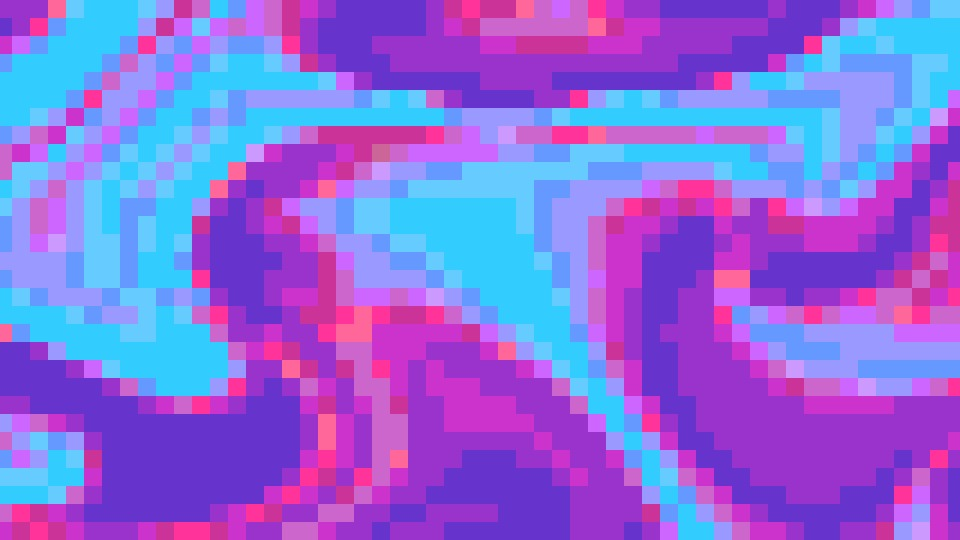
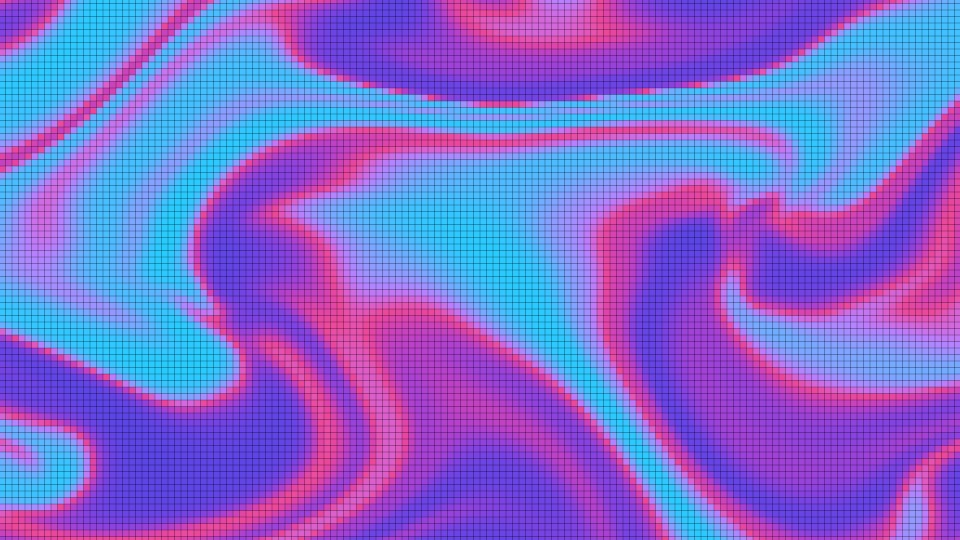
docs: effects over the picture, tint

diff --git a/packages/core/test/assets.browser.test.ts b/packages/core/test/assets.browser.test.ts
@@ -6,7 +6,7 @@
 
 import { describe, it } from "vitest";
 import { commands } from "vitest/browser";
-import { ascii, bloom, burst, dither, dune, flow, glint, halftone, halo, nacre, pixelate, renderStackFrame, silk } from "../src/index";
+import { ascii, bloom, burst, dither, dune, flow, glint, halftone, halo, nacre, pixelate, renderStackFrame, silk, tint } from "../src/index";
 import type { EffectLayer, Source } from "../src/index";
 
 const ENABLED = Boolean((import.meta as unknown as { env: Record<string, string> }).env.VITE_ASSETS);
@@ -20,17 +20,19 @@ async function save(name: string, source: Source, effects: EffectLayer[], colors
 
 describe.skipIf(!ENABLED)("readme assets", () => {
   it("renders one image per effect", async () => {
-    await save("pixelate", { kind: "generator", shader: flow }, [{ effect: pixelate, params: { size: 36, levels: 6 } }],
+    await save("pixelate", { kind: "generator", shader: flow }, [{ effect: pixelate, params: {} }],
       ["#4f46e5", "#ec4899", "#22d3ee"], 12, 3000);
     await save("dither", { kind: "generator", shader: bloom },
-      [{ effect: dither, params: { pattern: "blueNoise", size: 3, colorMode: "palette", levels: 4 } }],
+      [{ effect: dither, params: {} }],
       ["#140f30", "#9c2168", "#eb6a4e", "#fcd87c"], 3, 3000);
     await save("halftone", { kind: "generator", shader: halo },
       [{ effect: halftone, params: {} }],
       ["#081A3D", "#123A73", "#1E63AC", "#4C9EDB", "#AEDAF7"], 5, 2000);
     await save("ascii", { kind: "generator", shader: dune },
-      [{ effect: ascii, params: { size: 30, colorMode: "source", paper: "#050505" } }],
+      [{ effect: ascii, params: {} }],
       ["#FF2ED1", "#00F5A0", "#FFE600", "#00D1FF"], 7, 2500);
+    await save("tint", { kind: "generator", shader: flow }, [{ effect: tint, params: {} }],
+      ["#4f46e5", "#ec4899", "#22d3ee"], 12, 3000);
   }, 120_000);
 
   it("renders one image per newer look", async () => {

diff --git a/packages/core/test/effects.browser.test.ts b/packages/core/test/effects.browser.test.ts
@@ -320,8 +320,8 @@ describe("tint", () => {
 });
 
 describe("soft effects", () => {
-  // No shipped effect is soft any more (halftone moved to a lattice), so the
-  // path is exercised with a minimal one: invert the layer below.
+  // Tint is the one shipped soft effect; the path is exercised with a
+  // minimal one whose output is exact: invert the layer below.
   const invert: EffectDef = {
     id: "test-invert",
     label: "Invert",

diff --git a/README.md b/README.md
@@ -285,8 +285,14 @@ An effect redraws a picture. The picture can be one of the shaders above or an i
   <tr>
     <td width="25%"><img src=".github/assets/pixelate.jpg" alt="Pixelate" /><br /><b>Pixelate</b> <code>pixelate</code><br />Flat cells, with optional posterize and grid lines.</td>
     <td width="25%"><img src=".github/assets/dither.jpg" alt="Dither" /><br /><b>Dither</b> <code>dither</code><br />Bayer or blue-noise patterns, two to eight levels.</td>
-    <td width="25%"><img src=".github/assets/halftone.jpg" alt="Halftone" /><br /><b>Halftone</b> <code>halftone</code><br />Dots, lines or diamonds blended over the picture, or on paper.</td>
+    <td width="25%"><img src=".github/assets/halftone.jpg" alt="Halftone" /><br /><b>Halftone</b> <code>halftone</code><br />Dots, lines or diamonds over the picture, or on paper.</td>
     <td width="25%"><img src=".github/assets/ascii.jpg" alt="ASCII" /><br /><b>ASCII</b> <code>ascii</code><br />Characters picked by brightness, six sets.</td>
+  </tr>
+  <tr>
+    <td><img src=".github/assets/tint.jpg" alt="Tint" /><br /><b>Tint</b> <code>tint</code><br />Recolours by brightness, in two colours or the palette.</td>
+    <td></td>
+    <td></td>
+    <td></td>
   </tr>
 </table>
 
@@ -321,21 +327,43 @@ mountStack(el, {
 
 In React that is `<ShaderStack source={{ kind: "media", media: img }} colors={...} effects={...} />`. `effects` is a list, bottom layer first, so effects can stack.
 
+### How effects combine with the picture
+
+Halftone and ASCII draw marks over the picture: shapes, or characters. A bigger mark is a larger shape or a heavier character. They share these params:
+
+| Param | Range | What it does |
+| --- | --- | --- |
+| `ground` | `image`, `paper` | What the marks are drawn on: the picture, which shows between them, or a flat sheet of `paper` |
+| `blend` | `normal`, `multiply`, `screen`, `overlay`, `softLight`, `colorDodge` | How each mark combines with what is under it (CSS / W3C blend modes) |
+| `opacity` | 0 – 1 | Strength of the marks over the ground |
+| `blur` | 0 – 40 | Blurs the picture behind the marks. Image ground only |
+| `style` | `filled`, `uniform` | `filled` sizes each mark by the tone under it. `uniform` gives every mark the same size |
+| `exposure` | -1 – 1 | Brightens or darkens the tone that sizes the marks. The picture itself is unchanged |
+| `contrast` | 0 – 2 | Tone contrast before sizing the marks |
+| `density` | 0 – 1 | Share of cells that get a mark. The rest stay empty |
+
+Marks grow where they show. On an image ground, `multiply` grows them in the dark areas and every other blend in the bright areas. On paper, they grow where the picture differs most from the paper: in the dark areas on a light sheet, in the bright areas on a dark one. `invert` flips it.
+
+Dither and pixelate take `blend` and `opacity` only. `blend: "normal"` with `opacity: 1` replaces the picture.
+
+Dither, halftone and ASCII share the colour params. `colorMode` is `source` (keep the picture's colours), `duotone` (`ink` on `paper`) or `palette` (the palette's colours). `invert` flips the tone scale. Over a shader, palette mode keeps the gradient's own colour layout: dither outputs `levels` steps of the ramp (set `levels` to the number of colours to get exactly those), and halftone and ASCII colour each dot or glyph with the nearest palette stop, flat. On halftone and ASCII, `paper` only shows on a paper ground.
+
+Tint recolours whatever is below it, so stack it after any effect, or use it alone.
+
 ### Effect params
 
 Same rules as shader params: pass a subset, the rest keep their defaults. Sizes are in pixels at 1080p, so a `size` of 4 is 4px cells in a 1920x1080 export and 8px cells at 4K, with the same number of cells in both.
-
-Dither, halftone and ASCII share the colour params. `colorMode` is `source` (keep the picture's colours), `duotone` (`ink` on `paper`) or `palette` (the palette's colours). `invert` flips the tone scale. Over a shader, palette mode keeps the gradient's own colour layout: dither outputs `levels` steps of the ramp (set `levels` to the number of colours to get exactly those), and halftone and ASCII colour each dot or glyph with the nearest palette stop, flat.
 
 <details>
 <summary><b>Pixelate</b></summary>
 
 | Param | Range | Default | What it does |
 | --- | --- | --- | --- |
-| `size` | 2 – 160 | 24 | Cell size |
+| `size` | 2 – 160 | 13 | Cell size |
 | `levels` | 0 – 16 | 0 | Colours per channel. 0 keeps full colour |
-| `gap` | 0 – 0.4 | 0 | Grid lines, as a fraction of the cell |
+| `gap` | 0 – 0.4 | 0.08 | Grid lines, as a fraction of the cell |
 | `gapColor` | colour | `#000000` | Colour of the grid lines |
+| `blend`, `opacity` | | `normal`, 1 | See above |
 
 </details>
 
@@ -350,7 +378,10 @@ Dither, halftone and ASCII share the colour params. `colorMode` is `source` (kee
 | `bias` | -0.5 – 0.5 | 0 | Shifts every tone before quantizing |
 | `linear` | on/off | off | Threshold in linear light. Physically accurate, but dark gradients lose detail |
 | `shimmer` | 0 – 12 | 0 | Pattern jumps per second. 0 is static |
-| `colorMode`, `ink`, `paper`, `invert` | | `source` | See above |
+| `colorMode`, `ink`, `paper`, `invert` | | `duotone`, `#000000`, `#ffffff` | See above |
+| `blend`, `opacity` | | `screen`, 0.6 | See above |
+
+By default the dither is white dots screened over the picture: black cells leave the picture as it is, white cells lighten it. For a full-frame dither in the picture's colours, use `{ colorMode: "source", blend: "normal", opacity: 1 }`.
 
 Floyd-Steinberg and the other error-diffusion dithers are not included. They are sequential, so a fragment shader cannot run them. Blue noise is the pattern that looks closest.
 
@@ -361,20 +392,17 @@ Floyd-Steinberg and the other error-diffusion dithers are not included. They are
 
 | Param | Range | Default | What it does |
 | --- | --- | --- | --- |
-| `ground` | `image`, `paper` | `image` | What the shapes are drawn on: the picture below, which shows between them, or a flat sheet of `paper` (classic print) |
-| `blend` | `normal`, `multiply`, `screen`, `overlay`, `softLight` | `screen` | How each shape combines with what is under it (CSS / W3C blend modes) |
-| `opacity` | 0 – 1 | 1 | Strength of the shapes over the ground |
+| `ground`, `blend`, `opacity`, `blur` | | `image`, `screen`, 1, 0 | See above |
 | `grid` | `square`, `hex` | `square` | Screen layout |
 | `shape` | `dot`, `line`, `square` | `square` | What each cell draws. `square` at 45° is a diamond |
 | `size` | 6 – 160 | 20 | Screen pitch |
 | `angle` | 0 – 180 | 45 | Screen angle, in degrees |
 | `radius` | 0.2 – 1.5 | 0.75 | Shape size. Above 1, neighbouring shapes merge where they are largest |
 | `softness` | 0 – 1 | 0.1 | Blurs shape edges |
-| `contrast` | 0 – 2 | 1.15 | Tone contrast before sizing the shapes |
-| `pulse` | 0 – 1 | 0 | Shapes swell and shrink in a wave across the frame |
-| `colorMode`, `ink`, `paper`, `invert` | | `source` | See above. `paper` shows only on a paper ground |
+| `style`, `exposure`, `contrast`, `density` | | `filled`, 0, 1.15, 1 | See above |
+| `colorMode`, `ink`, `paper`, `invert` | | `source` | See above |
 
-Shapes grow where their blend has the most effect: screened shapes can only lighten, so they grow in the bright areas; with any other blend they grow in the dark areas, as in print. `invert` flips it. For the old look, shapes on a sheet, use `{ ground: "paper", blend: "normal" }`.
+For shapes on a sheet, as in print, use `{ ground: "paper", blend: "normal" }`.
 
 </details>
 
@@ -383,14 +411,30 @@ Shapes grow where their blend has the most effect: screened shapes can only ligh
 
 | Param | Range | Default | What it does |
 | --- | --- | --- | --- |
+| `ground`, `blend`, `opacity`, `blur` | | `image`, `colorDodge`, 1, 0 | See above |
 | `charset` | `standard`, `dense`, `blocks`, `minimal`, `binary`, `katakana` | `standard` | Character set |
-| `size` | 8 – 96 | 24 | Character height |
+| `size` | 8 – 96 | 10 | Character height |
 | `smooth` | on/off | on | Dithers between neighbouring characters so gradients don't band |
-| `cycle` | 0 – 12 | 0 | Character re-rolls per second. 0 is static |
-| `cycleAmount` | 0 – 1 | 0.3 | How far a re-roll can move along the character ramp |
-| `colorMode`, `ink`, `paper`, `invert` | | `source` | See above. `paper` is the background in every mode |
+| `cycle` | 0 – 12 | 2 | Character re-rolls per second. 0 is static |
+| `cycleAmount` | 0 – 1 | 0.2 | Share of characters that re-roll each time. Higher also lets a character jump further along the set |
+| `style`, `exposure`, `contrast`, `density` | | `filled`, 0, 1.2, 1 | See above |
+| `colorMode`, `ink`, `paper`, `invert` | | `source`, `#e8ffe8`, `#000000` | See above |
+
+For the classic terminal look, characters on black, use `{ ground: "paper", blend: "normal" }`.
 
 Characters come from the system monospace font unless you pass `fontFamily` to the mount. Load a custom font with `document.fonts.load` first.
+
+</details>
+
+<details>
+<summary><b>Tint</b></summary>
+
+| Param | Range | Default | What it does |
+| --- | --- | --- | --- |
+| `mode` | `duotone`, `palette` | `duotone` | Maps each pixel's brightness to a colour: from `dark` to `light`, or along the palette |
+| `dark` | colour | `#1b1a4a` | Colour for black. Duotone only |
+| `light` | colour | `#f2c6a0` | Colour for white. Duotone only |
+| `amount` | 0 – 1 | 1 | Mix between the original colours (0) and the mapped ones (1) |
 
 </details>
 

diff --git a/.changeset/five-new-looks.md b/.changeset/five-new-looks.md
@@ -5,4 +5,4 @@
 
 Four new looks: `silk` (satin folds with an anisotropic sheen; matte and grainy at `sheen: 0`), `nacre` (glassy liquid folds whose colour shifts through the palette on every slope), `burst` (thin grainy rays out of one point, from dark tunnel to white-hot star, straight or twisted) and `glint` (a shoal of spinning shards streaming along a current). React: `<Silk>`, `<Nacre>`, `<Burst>`, `<Glint>`.
 
-Halftone now draws over the picture instead of replacing it. New params: `ground` (`image`, the default, keeps the picture visible between the shapes; `paper` is the old shapes-on-a-sheet look), `blend` (`normal`, `multiply`, `screen`, `overlay`, `softLight`, the CSS blend modes) and `opacity`. Screened shapes grow in the brights, every other blend grows them in the darks. New defaults: screen, diamonds (`shape: square` at 45°), size 20, radius 0.75, source colours. For the previous look, pass `{ ground: "paper", blend: "normal" }`. In palette mode, halftone and ASCII now colour each dot or glyph with the nearest palette stop, flat; over a shader they used to hand back the source colour and looked identical to source mode.
+Halftone now draws over the picture instead of replacing it. New params: `ground` (`image`, the default, keeps the picture visible between the shapes; `paper` is the old shapes-on-a-sheet look), `blend` (`normal`, `multiply`, `screen`, `overlay`, `softLight`, `colorDodge`, the CSS blend modes), `opacity`, `blur` (blurs the picture behind the shapes, image ground only), `style` (`filled` sizes shapes by tone, `uniform` makes them all one size), `exposure`, `density` (the share of cells that get a shape) and `contrast` as before. On an image ground, multiplied shapes grow in the darks and every other blend grows them in the brights; on paper they grow away from the paper colour. `invert` flips it. New defaults: screen, diamonds (`shape: square` at 45°), size 20, radius 0.75, source colours. For the previous look, pass `{ ground: "paper", blend: "normal" }`. `pulse` is removed. In palette mode, halftone and ASCII now colour each dot or glyph with the nearest palette stop, flat; over a shader they used to hand back the source colour and looked identical to source mode.

diff --git a/.changeset/marks.md b/.changeset/marks.md
@@ -1,0 +1,10 @@
+---
+"instantshader": minor
+"@instantshader/react": minor
+---
+
+ASCII now draws its characters over the picture, with the same `ground`, `blend`, `opacity`, `blur`, `style`, `exposure`, `contrast` and `density` params as halftone. New defaults: image ground, `colorDodge` at opacity 1, contrast 1.2, size 10, and `cycle: 2` with `cycleAmount: 0.2`. `cycleAmount` is now the share of characters that re-roll each step. `paper` only shows on a paper ground. For the previous look, characters on black, pass `{ ground: "paper", blend: "normal" }`, plus `size: 24, cycle: 0` for the old size and no flicker.
+
+Dither and pixelate take `blend` and `opacity`. `blend: "normal"` with `opacity: 1` gives exactly the old output. Dither's new default is white dots screened over the picture: duotone with black ink and white paper, `screen`, opacity 0.6. For the previous look, pass `{ colorMode: "source", blend: "normal", opacity: 1 }`. Pixelate defaults to size 13 with a thin grid (`gap: 0.08`); pass `{ size: 24, gap: 0 }` for the previous look.
+
+New `tint` effect: a gradient map by brightness, from `dark` to `light` (duotone) or along the palette, faded in by `amount`. It recolours whatever is below it, so it works alone or stacked after any other effect. Exported from both packages.

diff --git a/packages/core/README.md b/packages/core/README.md
@@ -3,8 +3,8 @@
 # instantshader
 
 Animated WebGL gradient shaders with zero dependencies. Mount a live, resizable
-gradient into any DOM element, put dither, pixelate, halftone or ASCII effects
-over it or over your own image, or render a single frame to a detached canvas
+gradient into any DOM element, put dither, pixelate, halftone, ASCII or tint
+effects over it or over your own image, or render a single frame to a detached canvas
 for export pipelines. Built by [InstantGradient](https://instantgradient.com/app).
 
 ## Install
@@ -70,8 +70,11 @@ the whole registry (importing either pulls every shader).
 ## Effects
 
 An effect redraws a picture: a shader's output, or an image, canvas or video
-frame you supply. Four are included: `pixelate`, `dither`, `halftone` and
-`ascii`.
+frame you supply. Five are included: `pixelate`, `dither`, `halftone`,
+`ascii` and `tint`. They draw over the picture rather than replacing it:
+`ground` picks the picture or a flat paper sheet under halftone and ASCII
+marks, and `blend` and `opacity` set how the effect mixes with what is below
+(tint uses `amount` instead).
 
 ```ts
 import { mountStack, bloom, dither } from "instantshader";

diff --git a/packages/react/README.md b/packages/react/README.md
@@ -5,7 +5,7 @@
 React bindings for [instantshader](https://www.npmjs.com/package/instantshader), a
 zero-dependency animated WebGL gradient engine. Drop a `<Flow>`, `<Beam>`, `<Bloom>`, `<Halo>`, `<Strata>`, `<Dune>` or
 `<Whorl>` component into any sized wrapper to mount a live, animated gradient, and
-add dither, pixelate, halftone or ASCII effects over it or over your own image.
+add dither, pixelate, halftone, ASCII or tint effects over it or over your own image.
 Built by [InstantGradient](https://instantgradient.com/app).
 
 ## Install
@@ -95,8 +95,8 @@ import { ShaderStack, halftone } from "@instantshader/react";
 ```
 
 Changing `effects` or their params updates the canvas in place. A new
-`source`, `seed`, `background` or `fontFamily` remounts it. The four effect
-defs (`pixelate`, `dither`, `halftone`, `ascii`) are re-exported from here,
+`source`, `seed`, `background` or `fontFamily` remounts it. The five effect
+defs (`pixelate`, `dither`, `halftone`, `ascii`, `tint`) are re-exported from here,
 and the [repository README](https://github.com/ugolbck/instantshader#effects)
 lists every param with its range.
 
